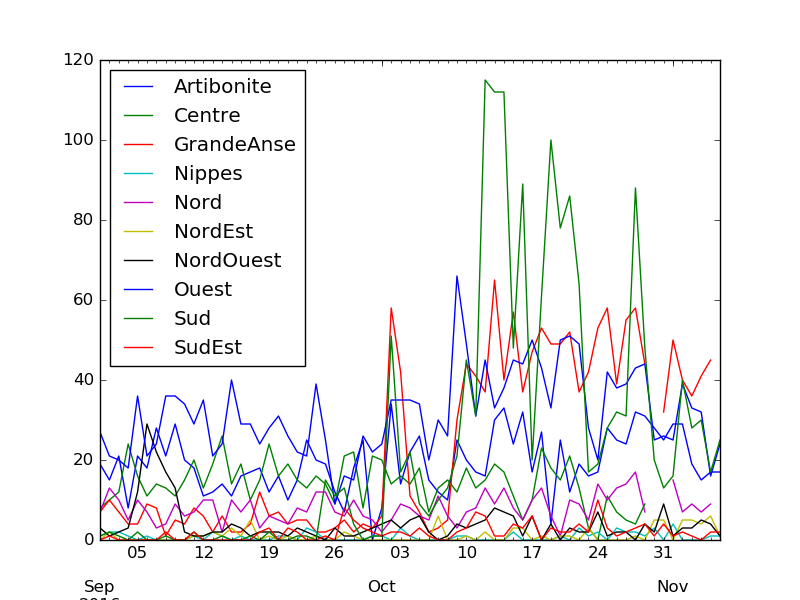
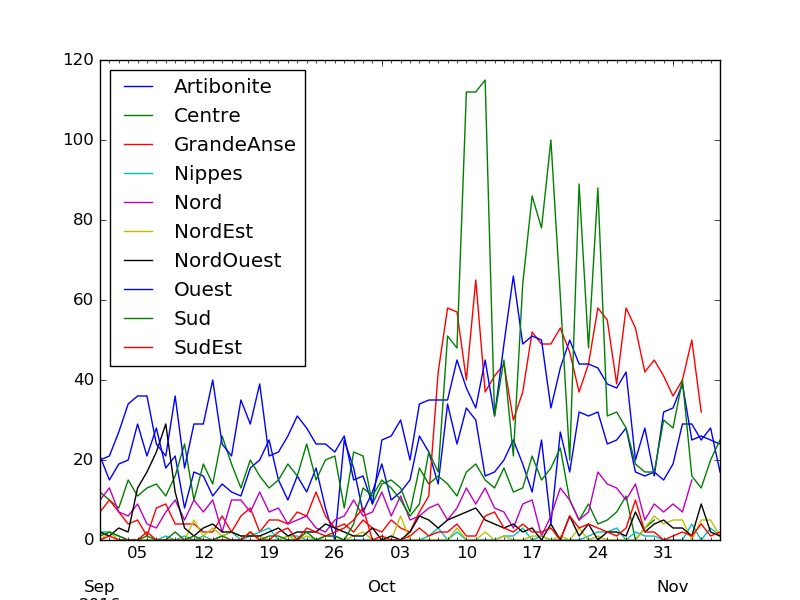
had to add sort rows

Changed region(s): [[0.125, 0.12, 0.9062, 0.9]]

diff --git a/2016_11_14/combineCSVs.py b/2016_11_14/combineCSVs.py
@@ -15,6 +15,7 @@ for fn in flist:
 df=pd.concat(dfl,axis=1)
 
 df=df.reindex_axis(sorted(df.columns), axis=1)
+df.sort_index(inplace=True)
 
 df.to_pickle('dataframeCombined.pickle')
 df.to_csv('allDept.csv')
